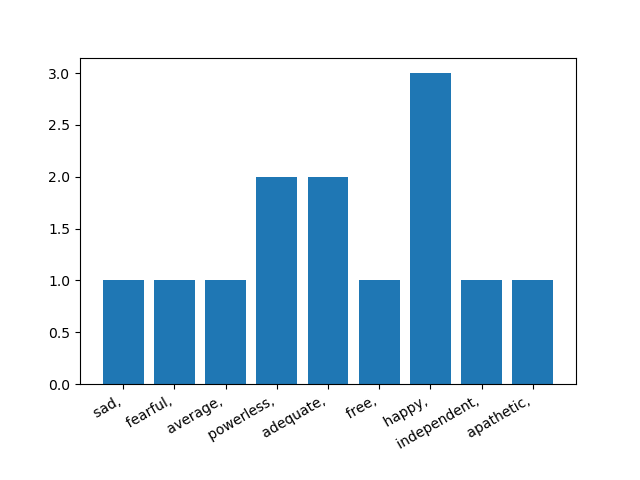
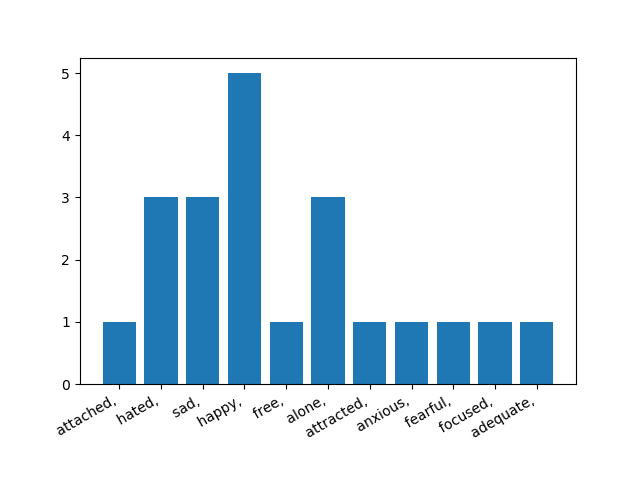
uses nltk libraries to replace stop_words and remove the delay by using nltk methods replacing split()

diff --git a/main.py b/main.py
@@ -5,6 +5,8 @@
 
 import string
 from collections import Counter
+from nltk.tokenize import word_tokenize
+from nltk.corpus import stopwords   #this has all stopwords in many language
 import matplotlib.pyplot as plt
 
 #read text
@@ -28,27 +30,35 @@ clean_text = lower_case.translate(str.maketrans('','',string.punctuation))
 #2 - tokenization
 #how to break up the sentence to words
 
-tokenized_words = clean_text.split()
+#tokenized_words = clean_text.split()
+#split() takes lot of time to analyze
+#split() can be done using nltk
+tokenized_words = word_tokenize(clean_text,'english')
 
 #3 - stop words
 #words that does not add any meaning to the sentence
 
-stop_words = ["i", "me", "my", "myself", "we", "our", "ours", "ourselves", "you", "your", "yours", "yourself",
-              "yourselves", "he", "him", "his", "himself", "she", "her", "hers", "herself", "it", "its", "itself",
-              "they", "them", "their", "theirs", "themselves", "what", "which", "who", "whom", "this", "that", "these",
-              "those", "am", "is", "are", "was", "were", "be", "been", "being", "have", "has", "had", "having", "do",
-              "does", "did", "doing", "a", "an", "the", "and", "but", "if", "or", "because", "as", "until", "while",
-              "of", "at", "by", "for", "with", "about", "against", "between", "into", "through", "during", "before",
-              "after", "above", "below", "to", "from", "up", "down", "in", "out", "on", "off", "over", "under", "again",
-              "further", "then", "once", "here", "there", "when", "where", "why", "how", "all", "any", "both", "each",
-              "few", "more", "most", "other", "some", "such", "no", "nor", "not", "only", "own", "same", "so", "than",
-              "too", "very", "s", "t", "can", "will", "just", "don", "should", "now"]
+#instead of using stop_words, we can use nltk.corpus (its a dataset that nltk has)
+#from that import stopwords (a list of stop_words inside of corpus dataset)
+
+# stop_words = ["i", "me", "my", "myself", "we", "our", "ours", "ourselves", "you", "your", "yours", "yourself",
+#               "yourselves", "he", "him", "his", "himself", "she", "her", "hers", "herself", "it", "its", "itself",
+#               "they", "them", "their", "theirs", "themselves", "what", "which", "who", "whom", "this", "that", "these",
+#               "those", "am", "is", "are", "was", "were", "be", "been", "being", "have", "has", "had", "having", "do",
+#               "does", "did", "doing", "a", "an", "the", "and", "but", "if", "or", "because", "as", "until", "while",
+#               "of", "at", "by", "for", "with", "about", "against", "between", "into", "through", "during", "before",
+#               "after", "above", "below", "to", "from", "up", "down", "in", "out", "on", "off", "over", "under", "again",
+#               "further", "then", "once", "here", "there", "when", "where", "why", "how", "all", "any", "both", "each",
+#               "few", "more", "most", "other", "some", "such", "no", "nor", "not", "only", "own", "same", "so", "than",
+#               "too", "very", "s", "t", "can", "will", "just", "don", "should", "now"]
+
+
 
 #4 - getting word list which not in stop_words list
 final_words = []
 
 for word in tokenized_words:
-    if word not in stop_words:
+    if word not in stopwords.words('english'):
         final_words.append(word)
 
 
